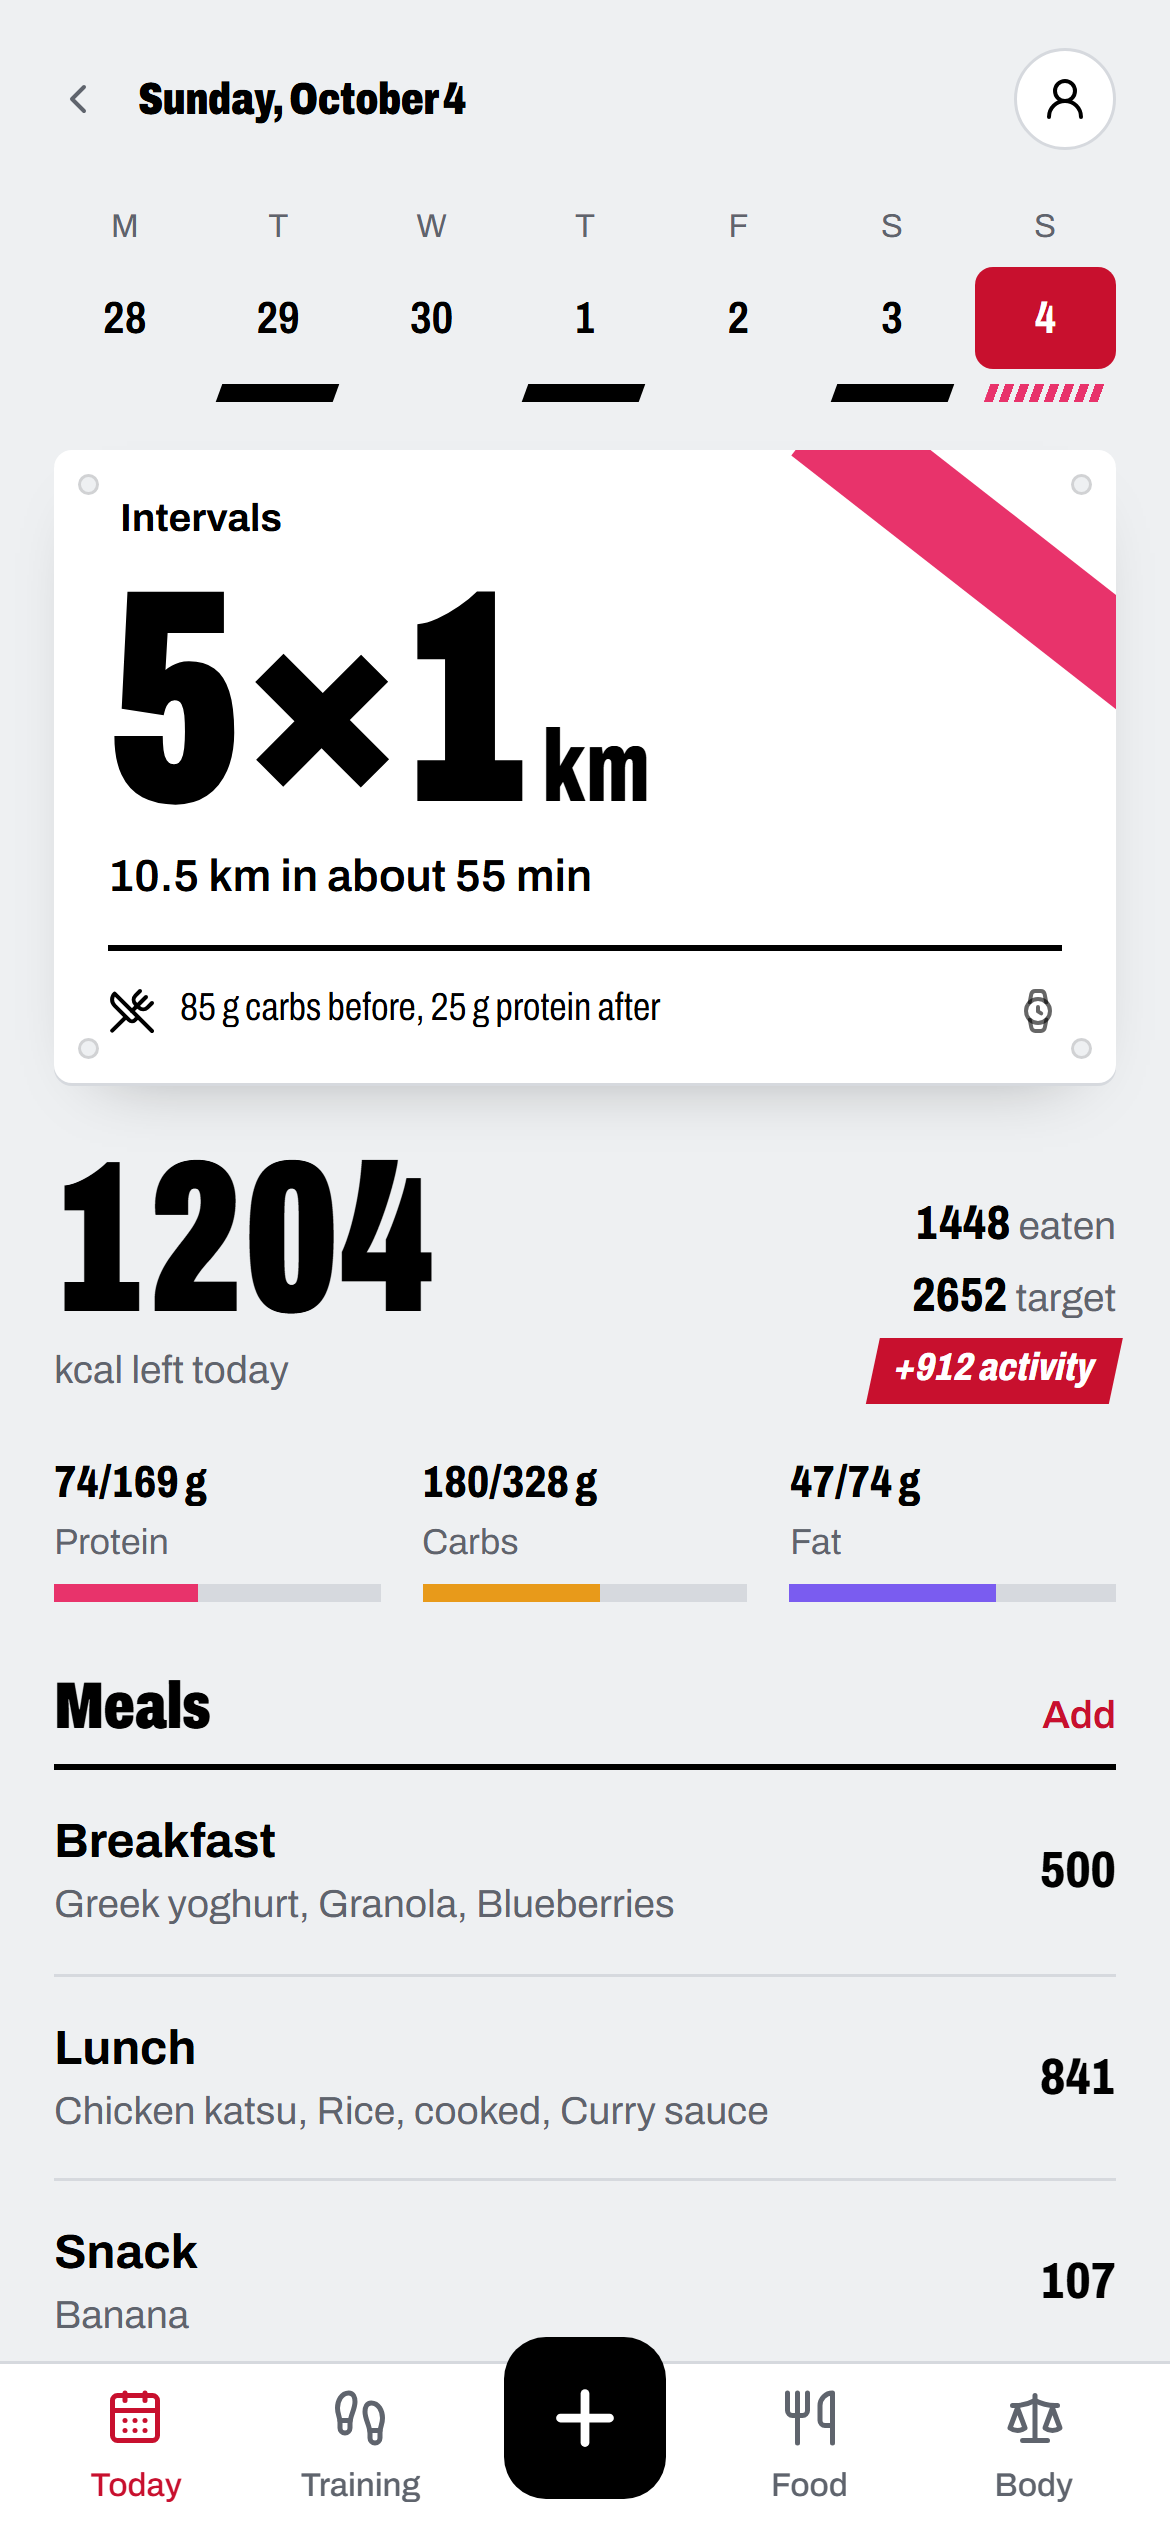
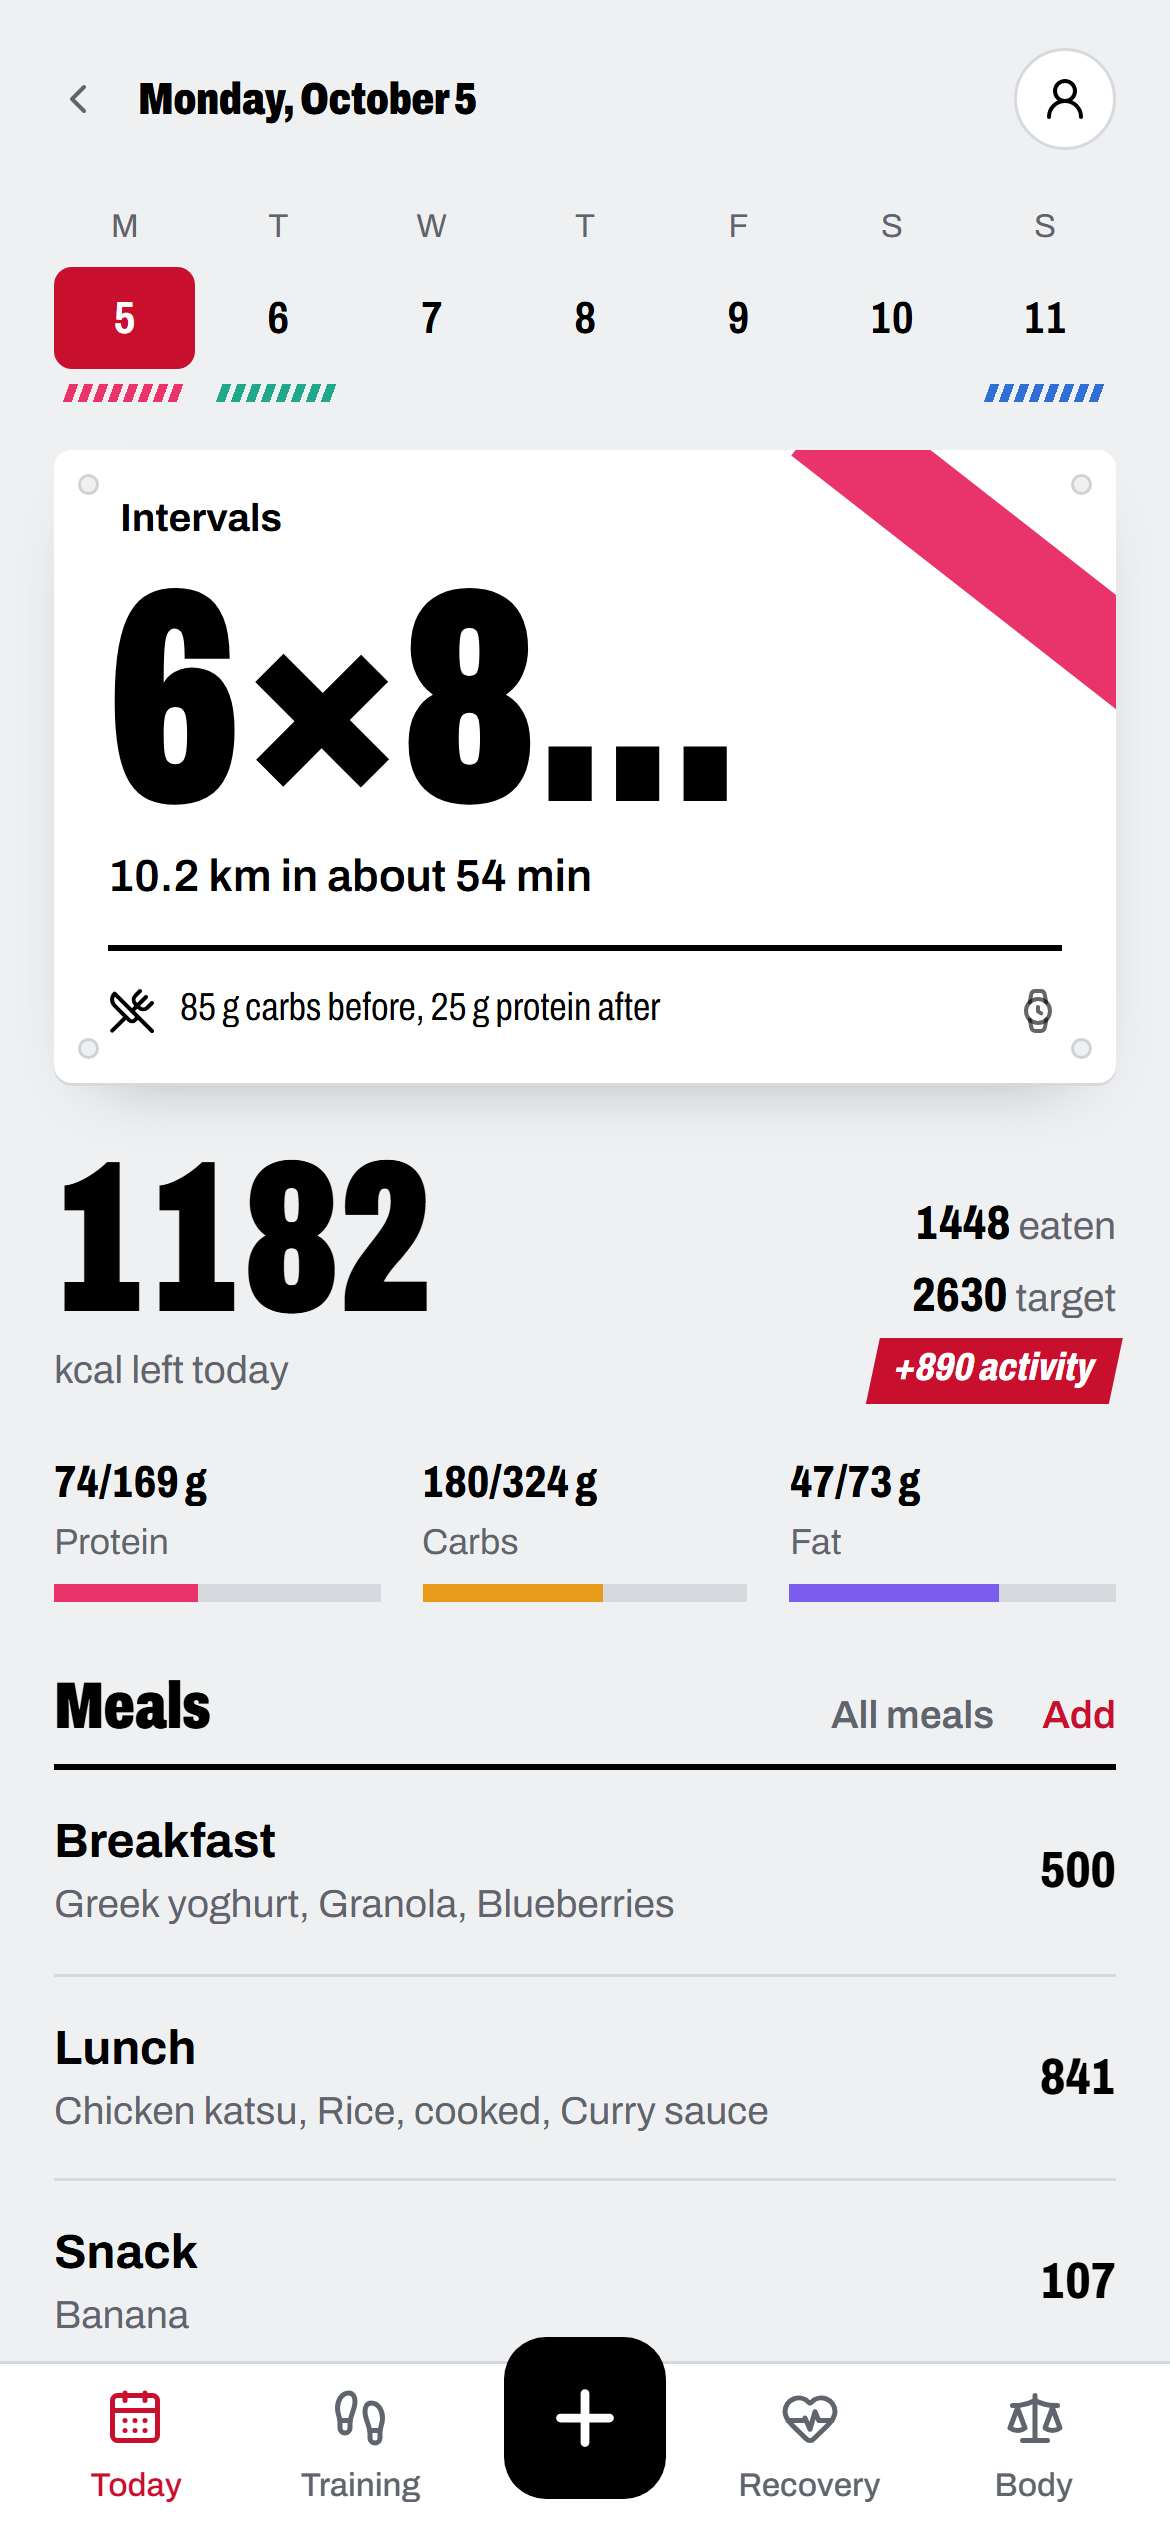
test(recovery): smoke for the tab; README screenshots and docs; clearer finding bars and empty food day

diff --git a/apps/web/components/recovery/FindingSheet.tsx b/apps/web/components/recovery/FindingSheet.tsx
@@ -12,7 +12,11 @@ export function FindingSheet({ finding, onClose }: { finding: FindingRow | null;
   if (!finding) return <BottomSheet open={false} onOpenChange={onClose} title="">{null}</BottomSheet>;
   const p = findingParams(finding);
   const max = Math.max(Math.abs(finding.high.mean ?? 0), Math.abs(finding.low.mean ?? 0), 1);
-  const bar = (m: number | null) => `${Math.round((Math.abs(m ?? 0) / max) * 100)}%`;
+  // Bars grow from a centre line: left = below the person's normal, right = above.
+  const bar = (m: number | null) => {
+    const w = `${Math.round((Math.abs(m ?? 0) / max) * 50)}%`;
+    return (m ?? 0) < 0 ? { right: "50%", width: w } : { left: "50%", width: w };
+  };
   return (
     <BottomSheet open onOpenChange={(o) => !o && onClose()} title={t(`metric.${finding.outcome}`)}>
       <div className="flex flex-col gap-4 pt-3">
@@ -24,12 +28,17 @@ export function FindingSheet({ finding, onClose }: { finding: FindingRow | null;
           ].map(({ label, g }) => (
             <div key={label}>
               <p className="text-[13px] font-semibold">{label}</p>
-              <div className="mt-1 h-2.5 w-full bg-muted">
-                <div className="h-full bg-foreground" style={{ width: bar(g.mean) }} />
+              <div className="relative mt-1 h-2.5 w-full bg-muted">
+                <span aria-hidden className="absolute inset-y-[-3px] left-1/2 w-px bg-muted-foreground" />
+                <div className="absolute inset-y-0 bg-foreground" style={bar(g.mean)} />
               </div>
             </div>
           ))}
         </div>
+        <p className="-mt-2 flex justify-between text-xs text-muted-foreground">
+          <span>{t("belowNormal")}</span>
+          <span>{t("aboveNormal")}</span>
+        </p>
         <StatRow items={[{ value: p.nHigh, label: t("daysHigh") }, { value: p.nLow, label: t("daysLow") }]} />
         {finding.controlOk && <p className="text-[13px] text-muted-foreground">{t("controlled")}</p>}
         {finding.source === "ai" && <p className="text-[13px] text-muted-foreground">{t("fromAi")}</p>}

diff --git a/apps/web/components/recovery/DaySheet.tsx b/apps/web/components/recovery/DaySheet.tsx
@@ -58,11 +58,17 @@ export function DaySheet({ date, onClose, whySlot }: { date: ISODate | null; onC
           )}
 
           <SectionHead title={t("day.dayBefore")} />
-          <ListRow title={t("day.kcal", { kcal: day.before.kcal, target: day.before.targetKcal })} />
-          <ListRow title={t("day.carbs")} value={`${day.before.carbsG} g`} />
-          <ListRow title={t("day.protein")} value={`${day.before.proteinG} g`} />
-          {day.before.alcoholG > 0 && <ListRow title={t("day.alcohol")} value={`${day.before.alcoholG} g`} />}
-          <ListRow title={t("day.late")} value={day.before.lateKcal == null ? t("day.lateUnknown") : `${day.before.lateKcal} kcal`} />
+          {day.before.meals === 0 ? (
+            <ListRow title={t("day.nothingLogged")} />
+          ) : (
+            <>
+              <ListRow title={t("day.kcal", { kcal: day.before.kcal, target: day.before.targetKcal })} />
+              <ListRow title={t("day.carbs")} value={`${day.before.carbsG} g`} />
+              <ListRow title={t("day.protein")} value={`${day.before.proteinG} g`} />
+              {day.before.alcoholG > 0 && <ListRow title={t("day.alcohol")} value={`${day.before.alcoholG} g`} />}
+              <ListRow title={t("day.late")} value={day.before.lateKcal == null ? t("day.lateUnknown") : `${day.before.lateKcal} kcal`} />
+            </>
+          )}
           <ListRow
             title={t("day.training")}
             sub={day.before.training.length ? day.before.training.map((a) => `${a.typeKey.replace(/_/g, " ")} ${a.km != null ? `${a.km} km` : `${a.minutes} min`}`).join(", ") : t("day.rest")}

diff --git a/CLAUDE.md b/CLAUDE.md
@@ -7,7 +7,7 @@ Personlig trenings- + ernæringsapp (Runna + MyFitnessPal i ett). Webapp, må fu
 Systemet er **generelt/flerbruker** — aldri hardkod brukerens personlige verdier.
 
 ## Les først
-- [docs/specs/2026-10-04-restitusjon.md](docs/specs/2026-10-04-restitusjon.md) — **restitusjon** (søvn/HRV, sammenhenger i egne data); del 1-plan: docs/plans/2026-10-04-restitusjon-del1-plan.md
+- [docs/specs/2026-10-04-restitusjon.md](docs/specs/2026-10-04-restitusjon.md) — **restitusjon** (søvn/HRV, sammenhenger i egne data); planer: docs/plans/2026-10-04-restitusjon-del1-plan.md, docs/plans/2026-10-05-restitusjon-del2-plan.md
 - [docs/specs/2026-10-04-redesign-tasuki.md](docs/specs/2026-10-04-redesign-tasuki.md) — **redesign** (Tasuki-uttrykket, tokens, komponenter)
 - [docs/specs/2026-10-03-fase2-garmin-trening.md](docs/specs/2026-10-03-fase2-garmin-trening.md) — **spec fase 2** (Garmin + treningsplan)
 - [docs/specs/2026-09-29-fase1-konsept.md](docs/specs/2026-09-29-fase1-konsept.md) — **konsept-spec** fase 1 (hva og hvorfor)
@@ -24,7 +24,7 @@ Systemet er **generelt/flerbruker** — aldri hardkod brukerens personlige verdi
 ## Kjøre og teste
 - `pnpm dev` (port 3000), `pnpm typecheck`, `pnpm build`
 - `pnpm test:int` — integrasjonstester (Vitest) mot Supabase-prosjektet i `apps/web/.env.local`, med testbrukere som slettes etterpå
-- `node tests/smoke/smoke.mjs [url]` (+ `checkin-smoke.mjs`, `profile-smoke.mjs`, `training-smoke.mjs`, `redesign-shots.mjs` for alle skjermer i lys og mørk) — Playwright-flyter mot kjørende app (default `http://localhost:3100`), skjermbilder i `tests/smoke/out/`
+- `node tests/smoke/smoke.mjs [url]` (+ `checkin-smoke.mjs`, `profile-smoke.mjs`, `training-smoke.mjs`, `recovery-smoke.mjs`, `redesign-shots.mjs` for alle skjermer i lys og mørk) — Playwright-flyter mot kjørende app (default `http://localhost:3100`), skjermbilder i `tests/smoke/out/`
 - Garmin-adapter lokalt: `python -m venv .venv && .venv/Scripts/pip install -r apps/web/requirements.txt`, så `.venv/Scripts/python apps/web/scripts/garmin-dev.py` (port 3200, leser `.env.local` selv) og `GARMIN_ADAPTER_URL=http://127.0.0.1:3200` + `GARMIN_ADAPTER_SECRET` i `.env.local`. Integrasjonstestene bruker en falsk Garmin (`tests/integration/fake-garmin.ts`)
 - Restitusjon-spike mot ekte konto: start adapteret lokalt, så `SPIKE_EMAIL=<e-post> pnpm exec vitest run tests/integration/recovery-spike.test.ts` (hoppes over ellers)
 - `npx tsx evals/food/run.mts` — AI-eval, koster penger (se `evals/food/README.md`)

diff --git a/README.md b/README.md
@@ -35,14 +35,19 @@ A training plan, nutrition and weight tracking in one mobile web app, driven by 
 - The whole plan as a line map to race day, with weekly kilometres.
 - Changes come as suggestions you accept: a missed session, new paces, a lighter week. You can also ask for changes in plain words.
 
+### Recovery
+- What affects your sleep, HRV and resting heart rate, and how your runs go: links found in your own data, each with the numbers behind it.
+- Strict statistics first; links that only come from hard training days are filtered out.
+- Optional AI on top (off by default): a weekly summary and "Why?" for a single day, citing only verified numbers.
+
 ### Garmin
-- Steps and workouts sync automatically. Your daily target builds up through the day as you move.
+- Steps, workouts, sleep and HRV sync automatically. Your daily target builds up through the day as you move.
 
 ## Screenshots
 
-| Today | Training | Session | Log food | Body | New plan |
-|:---:|:---:|:---:|:---:|:---:|:---:|
-| <img src="docs/screenshots/today.png" width="150"> | <img src="docs/screenshots/training.png" width="150"> | <img src="docs/screenshots/workout.png" width="150"> | <img src="docs/screenshots/food-ai.png" width="150"> | <img src="docs/screenshots/body.png" width="150"> | <img src="docs/screenshots/wizard.png" width="150"> |
+| Today | Training | Session | Recovery | Log food | Body | New plan |
+|:---:|:---:|:---:|:---:|:---:|:---:|:---:|
+| <img src="docs/screenshots/today.png" width="150"> | <img src="docs/screenshots/training.png" width="150"> | <img src="docs/screenshots/workout.png" width="150"> | <img src="docs/screenshots/recovery.png" width="150"> | <img src="docs/screenshots/food-ai.png" width="150"> | <img src="docs/screenshots/body.png" width="150"> | <img src="docs/screenshots/wizard.png" width="150"> |
 
 ## Plan
 
@@ -51,6 +56,6 @@ A training plan, nutrition and weight tracking in one mobile web app, driven by 
 | 1 | Nutrition, food logging from photos, weight trend, weekly check-in | Done |
 | 2 | Garmin sync, activity-based daily target, training plan on the watch | Testing |
 | 2 | New design ("Tasuki"), new logo, light and dark mode | Done |
-| Next | Recovery tab (sleep, HRV, readiness) | Planned |
+| 2 | Recovery tab: links between food, training and sleep, optional AI | Done |
 | Next | Weekly volume adapted to what you actually ran | Planned |
 | Later | Strength and cycling in the plan, native app | Ideas |

diff --git a/docs/02-decisions.md b/docs/02-decisions.md
@@ -105,6 +105,7 @@ Format: dato — beslutning — begrunnelse.
 | 2026-10-04 | Restitusjon – AI: forslag (C) får bare statistikk per variabel, aldri faktor mot utfall, og duplikater avvises. «Why?»-svar lagres med fingeravtrykk av data og lages på nytt bare når brukeren trykker. AI-tabeller får `prompt_version`. Modell `claude-sonnet-5` (som matrådene), byttes samlet senere | Unngå skjev test; konsistens med eksisterende AI-tabeller |
 | 2026-10-05 | Restitusjon del 1 – justert etter gjennomgang: ukeblokker alene ga 32/100 falske funn ved ρ = 0,9 og 18/100 for dietter i faser → 14-dagers blokker + effektive dager (målt 4/100 og 14/100). Kontroll som ikke kan kjøres (for få dager uten trening) stoppes som «likely training». Like verdier i tredjedeler flytter én grense til naboverdien | Målt på 100 syntetiske datasett per scenario; innlagt sammenheng finnes fortsatt |
 | 2026-10-05 | Restitusjon del 1 – henting: første synk tar bare siste 3 netter (synken er tung fra før); søvnhentingen kjører etter at synken er lagret, med 40 s tidsgrense; hullfylling regnes fra sist hentede morgen (`recovery_synced_until`), ikke siste natt med data; adapteret kutter minuttlister (202 KB → 8 KB for 2 netter) | Gjennomgang: hentingen kunne stoppe synk/plan-push, og netter uten klokke ble hentet på nytt hver synk |
+| 2026-10-05 | Restitusjon del 2: fanen viser funn med ekte grenser («Deficit over 820 kcal: HRV −6 ms»), kurver med normalbånd (25.–75. persentil av forrige 28 dager), dagsark (søvnfaser, mot normal, dagen før; «No food logged» uten mat) og sammenfoldede lister. Funnarket viser gruppene som stolper fra en midtlinje (under/over egen normal). Bryter for helsedata til AI i Profil, av som standard. AI A/B/C med henvisningskrav; AI-spørsmål kan ha terskel og forskyvning −3..+1, testes med q ≤ 0,05, maks 9 aktive. Klokkeslett kan settes i redigeringsarket for måltid | Spec §7–§8; skjermen sett i røyktest |
 
 ## Åpne spørsmål
 - (Teknisk fase) Garmin-tilgang. Offisielt program er kun for bedrifter og muligens pauset (se research-notes). Sannsynlig vei: uoffisielt bibliotek i personlig fase, bak adapter-lag; offisielt når/om appen blir produkt.

diff --git a/docs/specs/2026-10-04-restitusjon.md b/docs/specs/2026-10-04-restitusjon.md
@@ -1,6 +1,6 @@
 # Restitusjon — sammenhenger i egne data
 
-Dato: 2026-10-04. Status: **godkjent**; del 1 under arbeid (plan: `docs/plans/2026-10-04-restitusjon-del1-plan.md`).
+Dato: 2026-10-04. Status: **godkjent; del 1 og 2 levert** (planer: `docs/plans/2026-10-04-restitusjon-del1-plan.md`, `docs/plans/2026-10-05-restitusjon-del2-plan.md`).
 Beslutninger: `docs/02-decisions.md`, rader 2026-10-04 om restitusjonsfanen.
 
 ## 1. Mål
